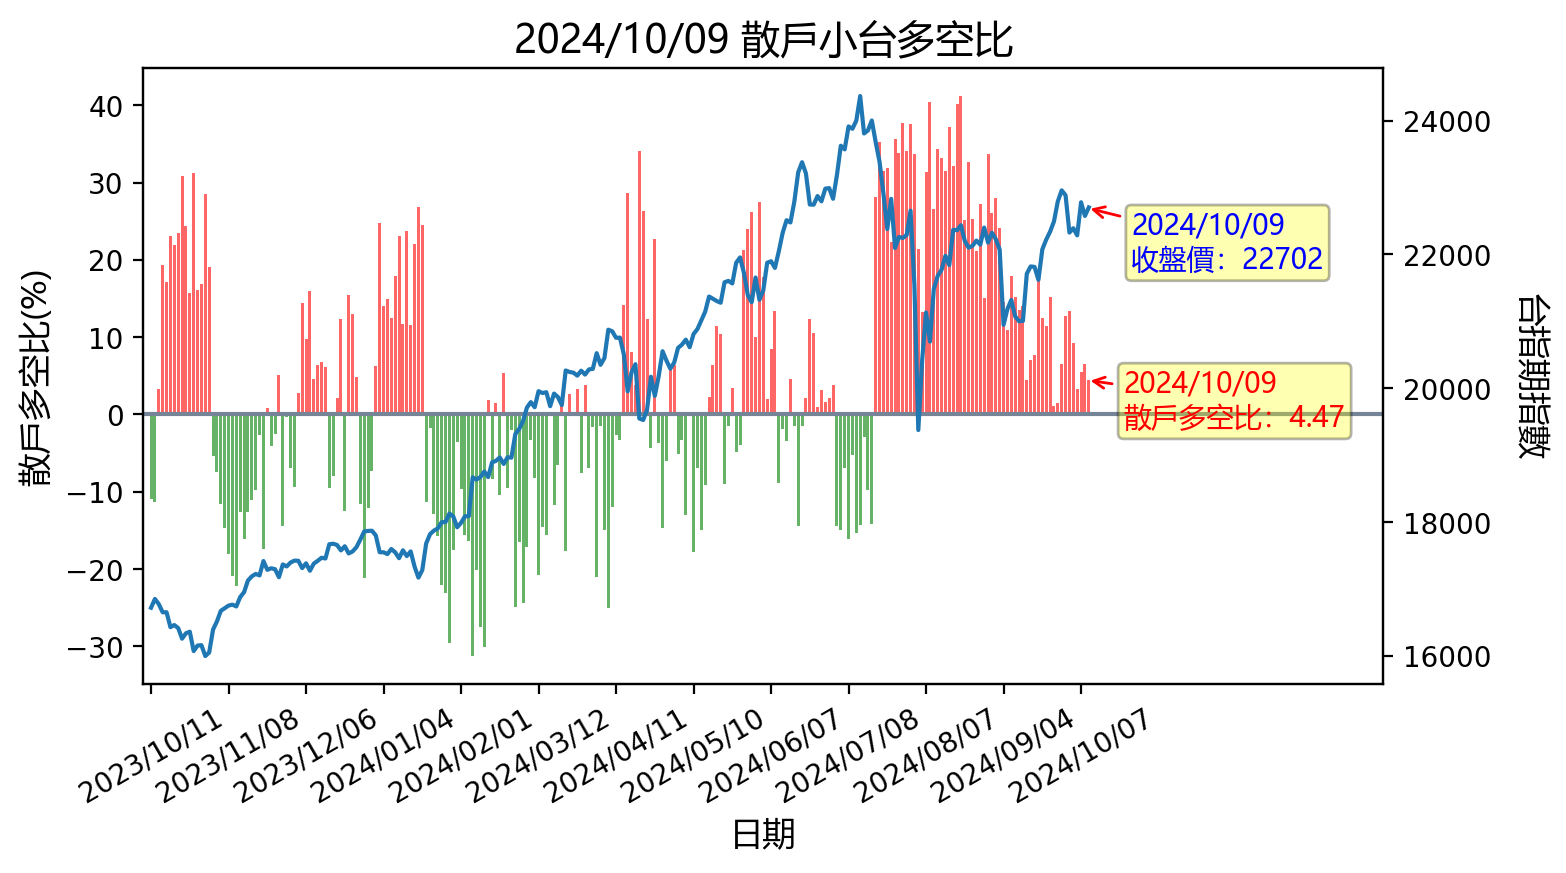
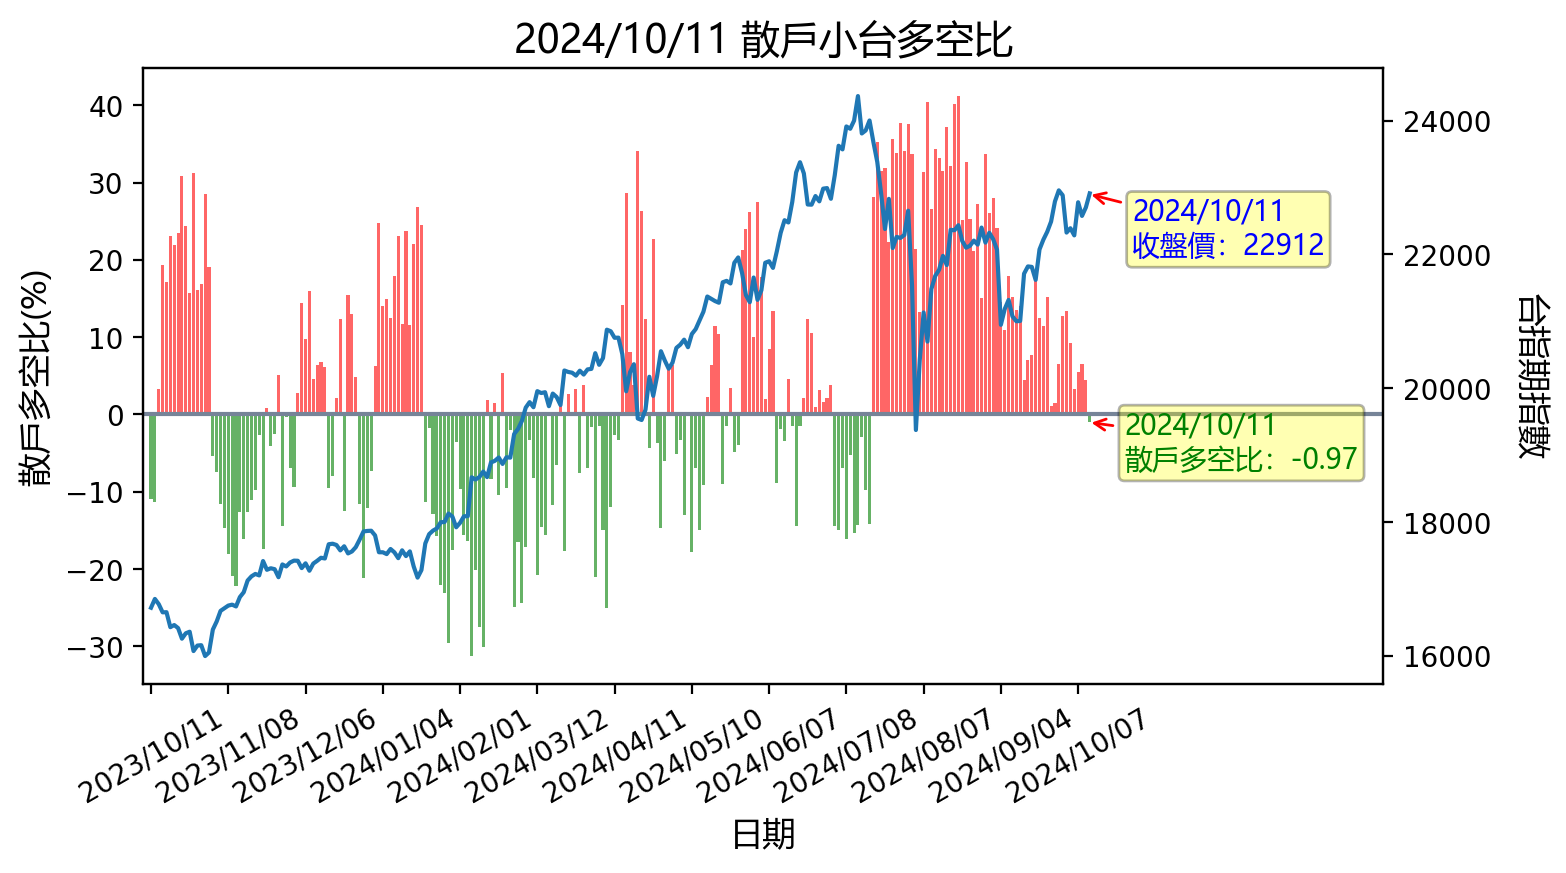
更新時間: Fri Oct 11 16:35:14 CST 2024

diff --git a/README.md b/README.md
@@ -1,12 +1,12 @@
-## 20241010 台指期「預估換倉成本」
+## 20241011 台指期「預估換倉成本」
 ![](images/txfcost.png)
 
-## 20241010 台指期「散戶小台多空比」
+## 20241011 台指期「散戶小台多空比」
 ![](images/bbiri.png)
 
-## 20241010 台指選擇權「Put/Call Ratios」
+## 20241011 台指選擇權「Put/Call Ratios」
 ![](images/pcratio.png)
 
-## 20241010 台指期「大額交易人」
+## 20241011 台指期「大額交易人」
 ![](images/blocktrade.png)
 
